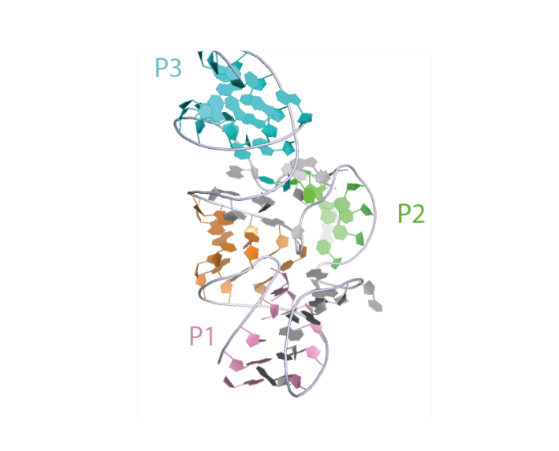
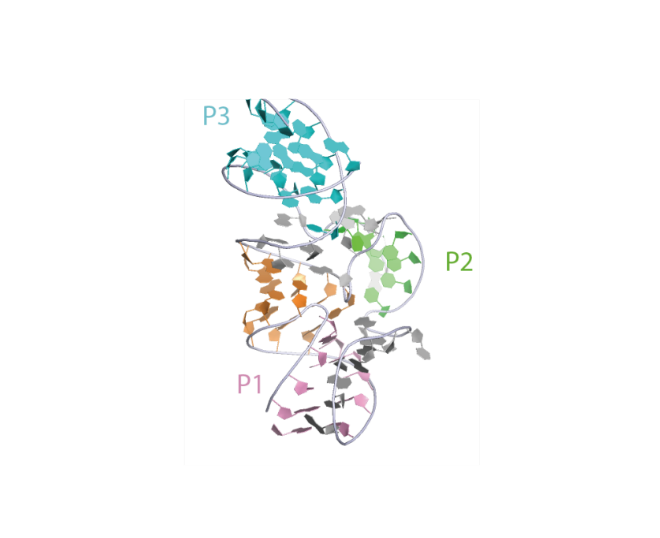
0629V5

Changed region(s): [[0.2737, 0.0931, 0.7603, 0.9002]]

diff --git a/docs/Pistol.html b/docs/Pistol.html
@@ -421,7 +421,7 @@
 <p>Crystal structure of the Pistol ribozyme. This representation was generated from PDB ID: 6R47 at 3.1 Å resolution. Helices are differentiated by color.</p>
 
 <table><tr>
-<td><img src="https://www.ribocentre.org/images/PistolPic/pistol3D.png" alt="drawing" style="height:400px" border="0" /></td>
+<td><img src="https://www.ribocentre.org/images/PistolPic/pistol3D.png" alt="drawing" style="height:320px" border="0" /></td>
 <td>
 <html>
   <head>
